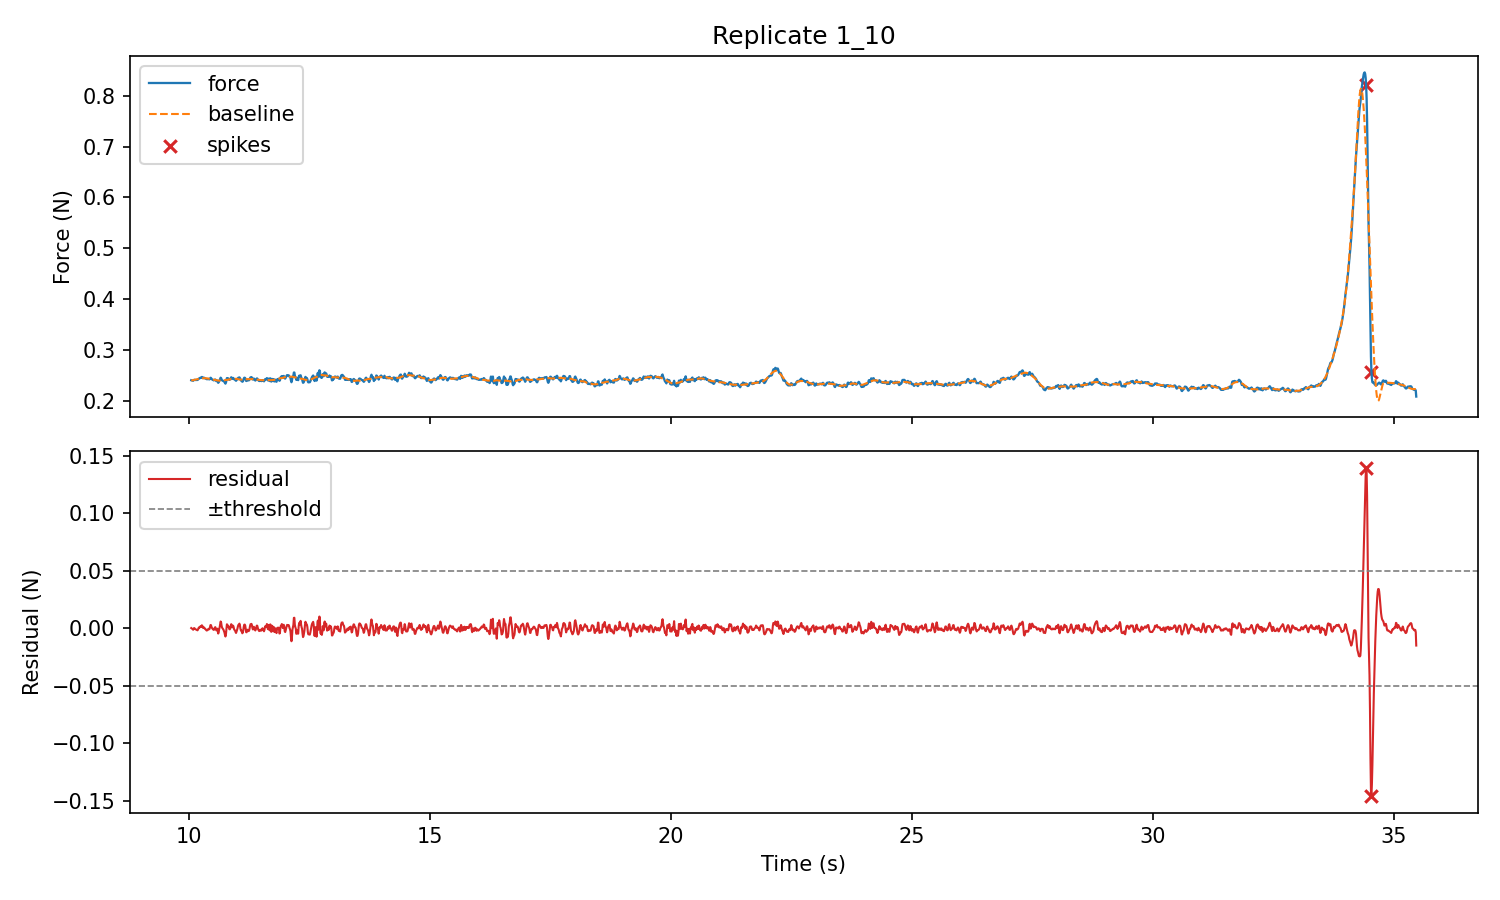
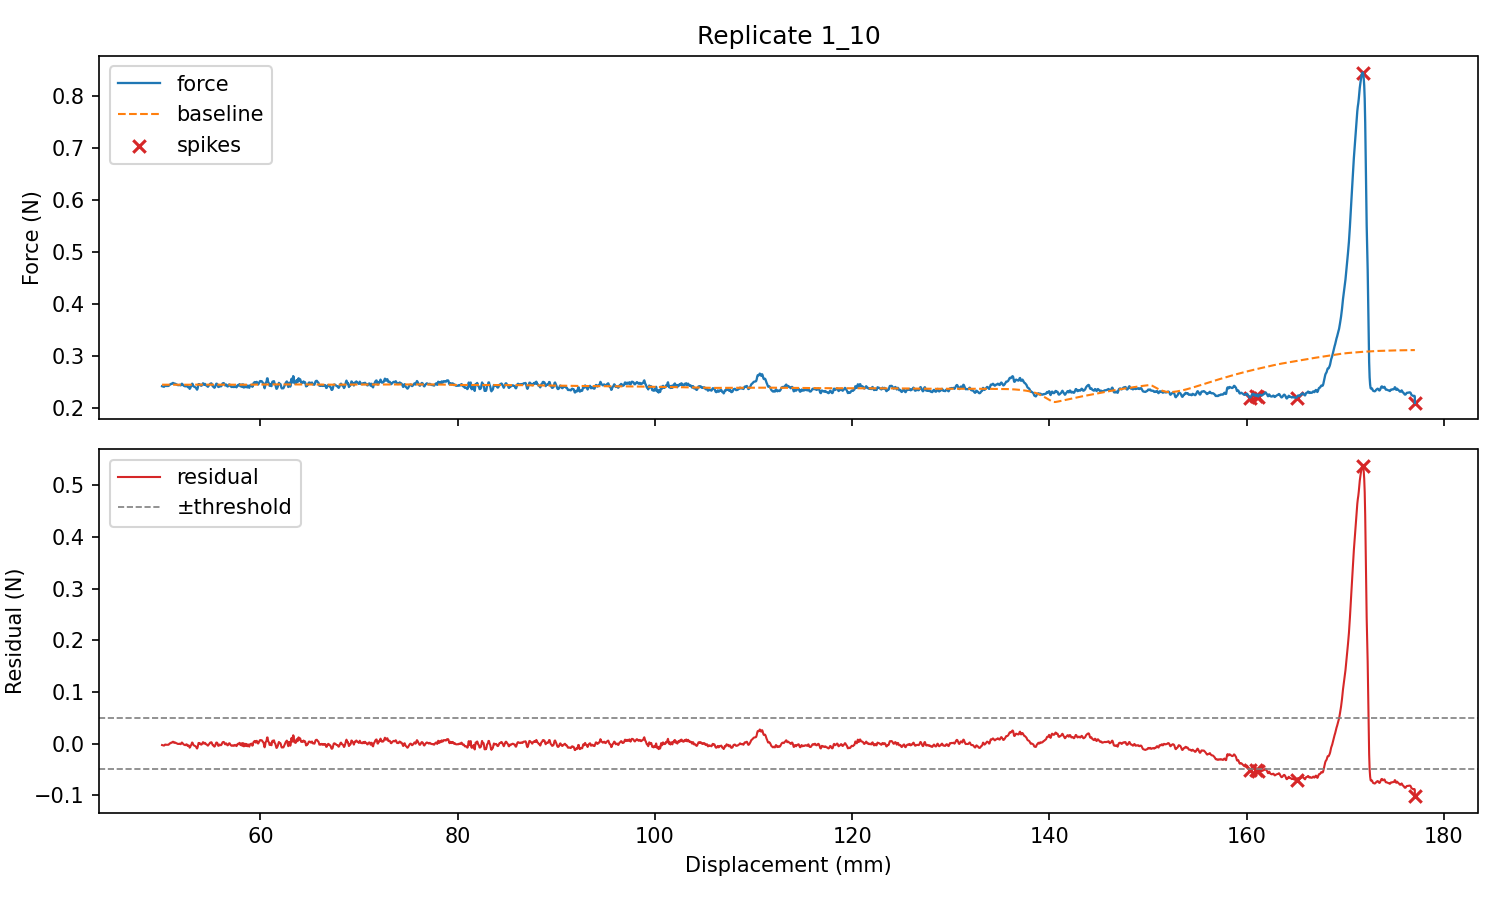
Improve Savitzky-Golay baseline and fix CSV parsing

diff --git a/slipstick.py b/slipstick.py
@@ -100,8 +100,11 @@ def _build_parser() -> argparse.ArgumentParser:
     parser.add_argument(
         "--window-seconds",
         type=float,
-        default=0.5,
-        help="Savitzky–Golay window duration in seconds (converted to nearest odd number of samples).",
+        default=None,
+        help=(
+            "Savitzky–Golay window duration in seconds (converted to nearest odd number of samples). "
+            "Defaults to a long window equal to 50% of the trimmed trace duration (minimum 4 s)."
+        ),
     )
     parser.add_argument("--polyorder", type=int, default=3, help="Savitzky–Golay polynomial order.")
     parser.add_argument("--threshold", type=float, default=0.05, help="Residual spike threshold (newtons).")
@@ -203,8 +206,13 @@ def _split_csv_line(line: str) -> List[str]:
                 else:
                     in_quotes = not in_quotes
             elif ch == ',' and not in_quotes:
-                cells.append("".join(field))
-                field = []
+                prev_ch = text[i - 1] if i > 0 else ''
+                next_ch = text[i + 1] if i + 1 < length else ''
+                if prev_ch.isdigit() and next_ch.isdigit():
+                    field.append(ch)
+                else:
+                    cells.append("".join(field))
+                    field = []
             else:
                 field.append(ch)
             i += 1
@@ -283,7 +291,7 @@ def detect_spikes(
     replicate: Replicate,
     *,
     displacement_window: tuple[float, float],
-    window_seconds: float,
+    window_seconds: float | None = None,
     polyorder: int,
     threshold: float,
 ) -> List[Spike]:
@@ -301,7 +309,7 @@ def _analyse_replicate(
     replicate: Replicate,
     *,
     displacement_window: tuple[float, float],
-    window_seconds: float,
+    window_seconds: float | None,
     polyorder: int,
     threshold: float,
 ) -> DetectionResult | None:
@@ -321,7 +329,13 @@ def _analyse_replicate(
     if fs is None or fs <= 0:
         return None
 
-    window_length = _window_length_from_seconds(window_seconds, fs)
+    trace_duration = float(time[-1] - time[0]) if time.size > 1 else 0.0
+    if window_seconds is None or window_seconds <= 0:
+        long_window_seconds = max(trace_duration * 0.50, 4.0)
+    else:
+        long_window_seconds = window_seconds
+
+    window_length = _window_length_from_seconds(long_window_seconds, fs)
     if window_length <= polyorder:
         window_length = polyorder + 1
     if window_length % 2 == 0:
@@ -403,7 +417,12 @@ def _manual_savgol(y: np.ndarray, *, window_length: int, polyorder: int) -> np.n
 
 
 def _savgol_coefficients(window_length: int, polyorder: int) -> np.ndarray:
-    x = np.arange(-(window_length // 2), window_length // 2 + 1, dtype=float)
+    half = window_length // 2
+    if half == 0:
+        return np.ones(window_length, dtype=float)
+
+    scale = float(half)
+    x = np.arange(-half, half + 1, dtype=float) / scale
     A = np.vander(x, polyorder + 1, increasing=True)
     ATA = A.T @ A
     pseudo = np.linalg.pinv(ATA) @ A.T
@@ -437,24 +456,31 @@ def _save_plot(out_path: Path, rep_id: str, result: DetectionResult, threshold: 
     assert plt is not None  # plotting gated by caller
 
     spike_indices = [sp.index for sp in result.spikes]
-    spike_times = result.time[spike_indices] if spike_indices else np.array([])
+    spike_disp = result.disp[spike_indices] if spike_indices else np.array([])
 
     fig, (ax_force, ax_residual) = plt.subplots(2, 1, sharex=True, figsize=(10, 6))
 
-    ax_force.plot(result.time, result.force, label="force", color="tab:blue", linewidth=1.1)
-    ax_force.plot(result.time, result.baseline, label="baseline", color="tab:orange", linestyle="--", linewidth=1.0)
+    ax_force.plot(result.disp, result.force, label="force", color="tab:blue", linewidth=1.1)
+    ax_force.plot(
+        result.disp,
+        result.baseline,
+        label="baseline",
+        color="tab:orange",
+        linestyle="--",
+        linewidth=1.0,
+    )
     if spike_indices:
-        ax_force.scatter(spike_times, result.force[spike_indices], color="tab:red", marker="x", label="spikes")
+        ax_force.scatter(spike_disp, result.force[spike_indices], color="tab:red", marker="x", label="spikes")
     ax_force.set_ylabel("Force (N)")
     ax_force.set_title(f"Replicate {rep_id}")
     ax_force.legend(loc="upper left")
 
-    ax_residual.plot(result.time, result.residual, color="tab:red", label="residual", linewidth=1.0)
+    ax_residual.plot(result.disp, result.residual, color="tab:red", label="residual", linewidth=1.0)
     ax_residual.axhline(threshold, color="tab:gray", linestyle="--", linewidth=0.8, label="±threshold")
     ax_residual.axhline(-threshold, color="tab:gray", linestyle="--", linewidth=0.8)
     if spike_indices:
-        ax_residual.scatter(spike_times, result.residual[spike_indices], color="tab:red", marker="x")
-    ax_residual.set_xlabel("Time (s)")
+        ax_residual.scatter(spike_disp, result.residual[spike_indices], color="tab:red", marker="x")
+    ax_residual.set_xlabel("Displacement (mm)")
     ax_residual.set_ylabel("Residual (N)")
     ax_residual.legend(loc="upper left")
 

diff --git a/memory-bank/activeContext.md b/memory-bank/activeContext.md
@@ -1,15 +1,16 @@
 # Active context
 
 ## Current work focus
-The repository revolves around the single script (`slipstick.py`). A recent update
-added optional PNG plots (`--plot-dir`) that mark the force baseline, residual,
-and detected spikes per replicate when matplotlib is available.
+All effort centres on `slipstick.py`. The script now defaults to a long
+Savitzky–Golay window (50% of the trimmed trace, minimum 4 s), stabilises the
+manual SavGol fallback, and produces force-vs-displacement plots (baseline plus
+residual with spike markers) when `--plot-dir` is used.
 
 ## Operating constraints
 - Assume the CSV layout documented in the project brief.
 - Keep the script dependency footprint minimal (NumPy required, SciPy optional).
 
 ## Possible next steps
-- Validate the plotting output once matplotlib is available in the environment.
-- Consider adding a CSV/JSON spike summary export if users need machine-readable
-  results.
+- Decide whether to expose alternative displacement windows or interpolation for
+  sparse datasets.
+- Consider adding machine-readable summaries (CSV/JSON) if reporting needs grow.

diff --git a/memory-bank/progress.md b/memory-bank/progress.md
@@ -1,12 +1,14 @@
 # Progress
 
 ## Recent updates
-- Removed legacy parsing and detection scaffolding, tests, scripts, and tooling.
-- Added a single self-contained script (`slipstick.py`) that loads the CSV,
-  detrends the 50–200 mm displacement window, and reports residual spikes.
-- Introduced an optional `--plot-dir` flag that writes spike-marked PNG plots when
-  matplotlib is available.
-- Trimmed the README and Memory Bank to match the lightweight workflow.
+- Default Savitzky–Golay baseline window now spans 50% of the trimmed trace
+  (minimum 4 s) for better detrending of long runs.
+- Savitzky–Golay fallback coefficients are stabilised for large windows so the
+  NumPy path produces sensible baselines.
+- CSV parser now keeps embedded decimal commas even when fields are
+  inconsistently quoted, restoring complete replicate traces (e.g. T2EN data).
+- Plots render force/baseline vs displacement and were regenerated for all
+  datasets after the parser fix.
 
 ## Current status
 🟢 Ready for ad-hoc use. The CLI works on the provided CSV format with default

diff --git a/README.md b/README.md
@@ -19,10 +19,12 @@ python slipstick.py --input path/to/tensile.csv
 Optional flags:
 
 - `--disp-min` / `--disp-max`: displacement window (defaults 50–200 mm).
-- `--window-seconds`: Savitzky–Golay window length in seconds (default 0.5 s).
+- `--window-seconds`: Savitzky–Golay window length in seconds. Defaults to a long
+  window equal to 50% of the trimmed trace duration (minimum 4 s).
 - `--polyorder`: Savitzky–Golay polynomial order (default 3).
 - `--threshold`: absolute residual force threshold (default 0.05 N).
 - `--plot-dir`: directory for PNG plots with spikes marked (requires matplotlib).
+  Plots show force and baseline against displacement plus the residual trace.
 
 Output is a short report per replicate listing the time, displacement, and
 residual amplitude of each spike above the threshold. If no spikes are found in
